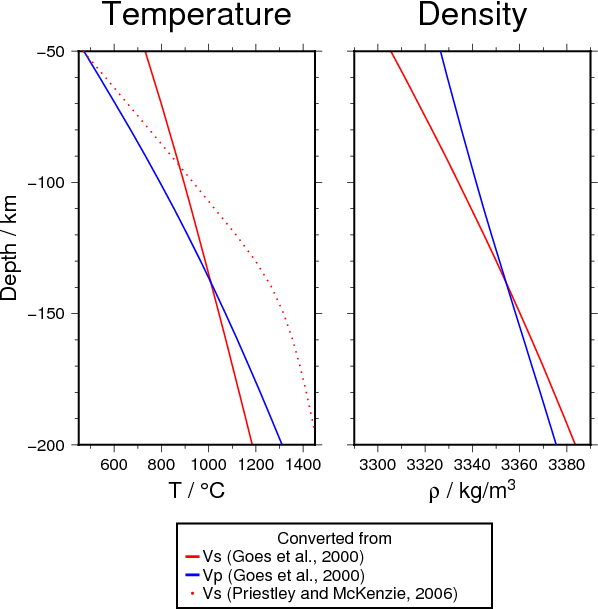
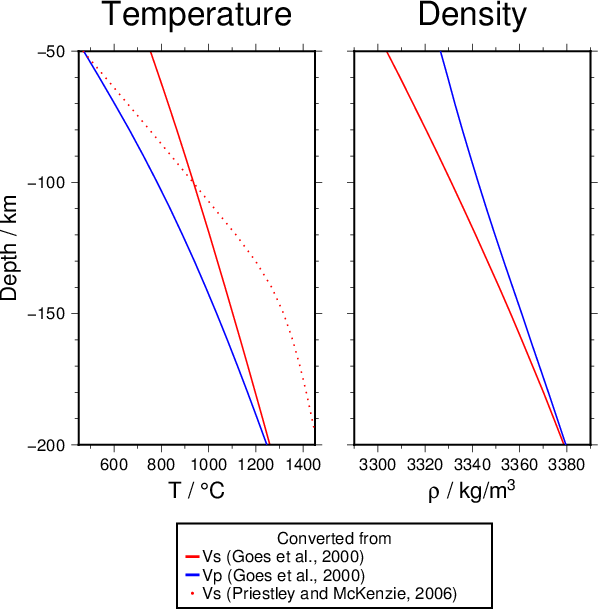
Fixed Rock::set_omega in V2RhoT

diff --git a/V2RhoT/Rock.cpp b/V2RhoT/Rock.cpp
@@ -332,7 +332,7 @@ void Rock::set_alpha3(double Ol, double Opx, double Cpx, double Sp, double Gnt) 
 }
 
 void Rock::set_omega(QString VelType) {
-  if (VelType == "P") {
+  if (VelType == "S") {
     set_omega(1);
   } else {
     set_omega(0.02);
@@ -447,7 +447,7 @@ void Rock::printProperties() {
   printline(width, "alpha2", "", minerals_alpha2);
   printline(width, "alpha3", "K", minerals_alpha3);
   cout << endl;
-  exit(1);
+  exit(0);
 }
 
 void Rock::alpha() {
